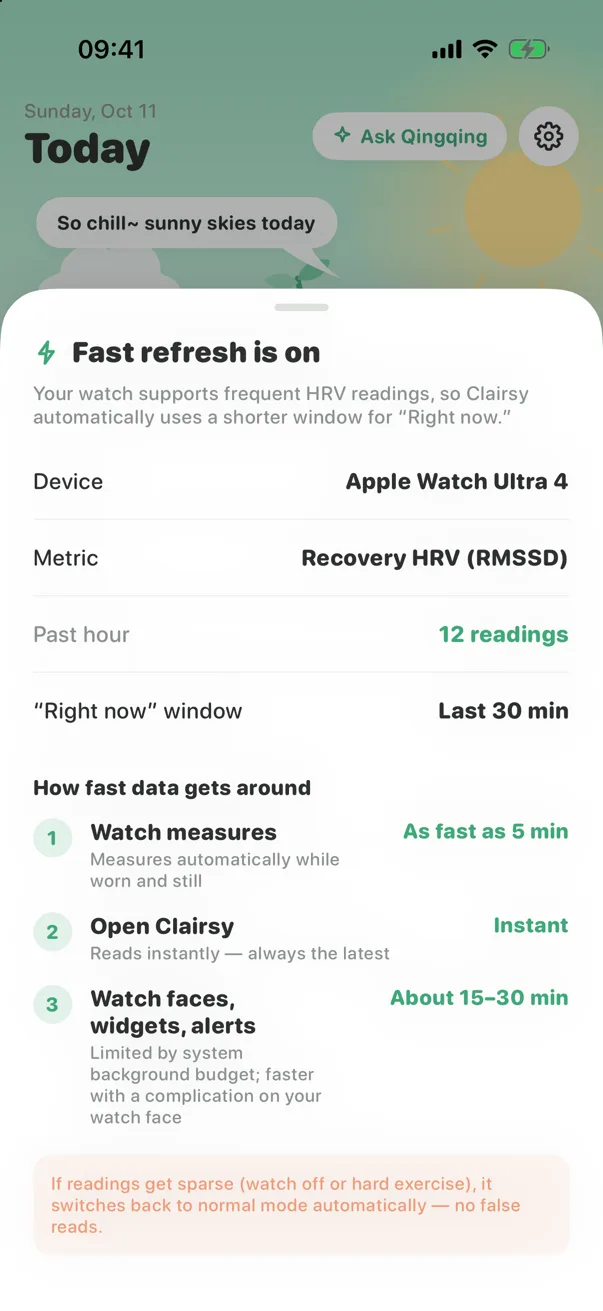
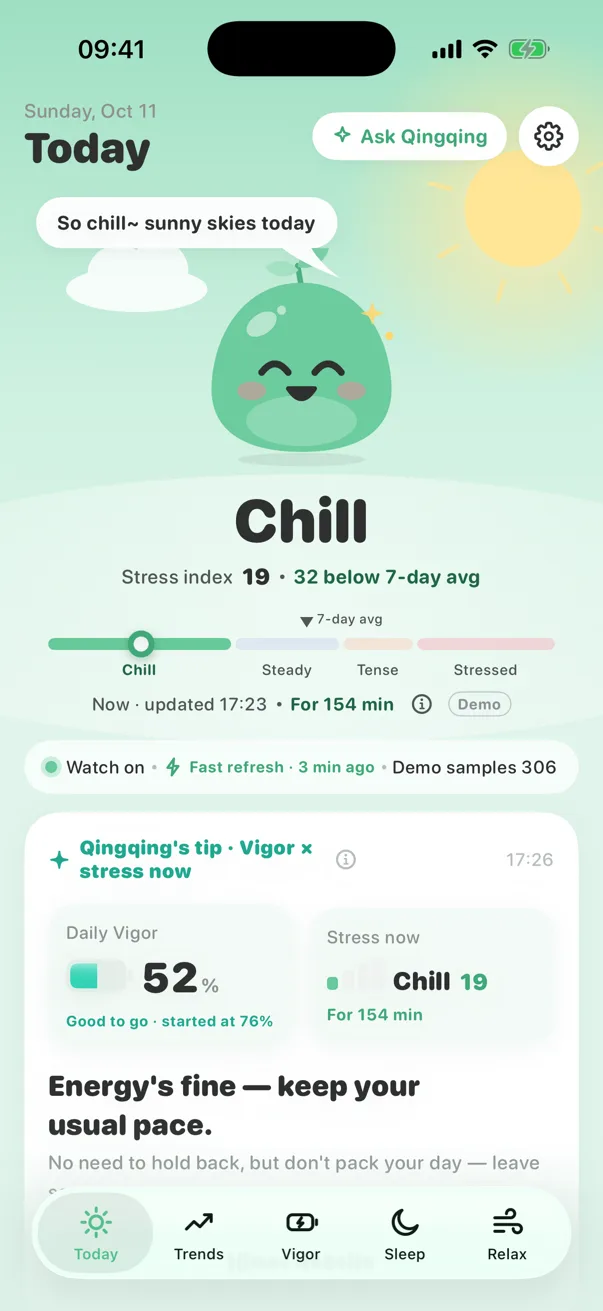
HRV feature step: use Today status strip (Fast refresh · N min ago) instead of info-panel screenshot; copy notes Today label

diff --git a/en/index.html b/en/index.html
@@ -18,7 +18,7 @@
 <div class="dev wt" data-px="0.08"><img src="../assets/watch-en.webp?v=7646d3a049" alt="Clairsy on Apple Watch" width="416" height="496"></div>
 <img class="mas" src="../assets/qingqing.svg?v=ae6b4a3a9c" alt="" width="135" height="135"></div>
 <p class="shotnote">Screenshots from the current app (demo data).</p></section>
-<section id="features" class="feat"><div class="wrap sgrid"><div class="steps"><div class="step reveal" data-step="0"><span class="n">01</span><h3>Stress, plain and clear</h3><p>HRV and resting heart rate become four clear levels — Chill, Steady, Tense, Stressed — with a stress index and 7-day average. Quick mood check-ins calibrate it to how you actually feel.</p><div class="inl"><div class="ph"><img src="../assets/today-en.webp?v=27ea3ea22e" alt="Clairsy Today" width="603" height="1311" loading="lazy"></div></div></div><div class="step reveal" data-step="1"><span class="n">02</span><h3>5-minute HRV refresh</h3><p>On Apple Watch Ultra 4 and Series 12, with Recovery HRV authorized, readings refresh about every 5 minutes and Clairsy switches to fast refresh, so “Right now” stays current. Your watch face and complications keep up as the system allows — usually within 15–30 minutes.</p><div class="inl"><div class="ph"><img src="../assets/hrv-en.webp?v=769bcee63e" alt="Fast refresh is on" width="603" height="1311" loading="lazy"></div></div></div><div class="step reveal" data-step="2"><span class="n">03</span><h3>Custom alert frequency</h3><p>Three stress-alert modes: Low (default) sends one gentle nudge when you move up to Stressed; Normal alerts after about 10 minutes in Tense or Stressed; Custom (Membership) reports your current status every 15 minutes to 4 hours. 15- and 30-minute intervals need a fast-refresh watch such as Series 12 or Ultra 4; on Series 11, Ultra 3 and earlier, Custom starts at 1 hour — or use Normal.</p><div class="inl"><div class="ph"><img src="../assets/alerts-en.webp?v=8a18800f85" alt="Stress alerts" width="603" height="1311" loading="lazy"></div></div></div><div class="step reveal" data-step="3"><span class="n">04</span><h3>Daily Vigor drains</h3><p>Each morning Clairsy sets your Daily Vigor from recovery, sleep and training load — then stress drains it through the day, so you can see how much you have left.</p><div class="inl"><div class="ph"><img src="../assets/vigor-en.webp?v=d0a4bb5afe" alt="Daily Vigor" width="603" height="1311" loading="lazy"></div></div></div><div class="step reveal" data-step="4"><span class="n">05</span><h3>Sleep at a glance</h3><p>Last night’s duration, sleep score, 7-night sleep debt and stages — deep, core, REM and awake — all free, with Qingqing suggesting a bedtime. Membership adds in-depth sleep analysis.</p><div class="inl"><div class="ph"><img src="../assets/sleep-en.webp?v=283b504065" alt="Sleep" width="603" height="1311" loading="lazy"></div></div></div><div class="step reveal" data-step="5"><span class="n">06</span><h3>Trends you can see</h3><p>Day, week and month views of your HRV against your baseline, a breakdown of time spent Chill, Steady, Tense and Stressed, and a stress heat map that shows when you tend to tense up. Trends are part of Clairsy Membership.</p><div class="inl"><div class="ph"><img src="../assets/trends-en.webp?v=13898853e0" alt="Trends" width="603" height="1311" loading="lazy"></div></div></div><div class="step reveal" data-step="6"><span class="n">07</span><h3>Breathe it down</h3><p>Resonance breathing (4 in, 6 out), cyclic sighing, 4-7-8 and box breathing, with Qingqing breathing along — on iPhone and Apple Watch. Before-and-after readings show what changed.</p><div class="inl"><div class="ph"><img src="../assets/breath-en.webp?v=e8665a2bd9" alt="Breathing exercise" width="603" height="1311" loading="lazy"></div></div></div><div class="step reveal" data-step="7"><span class="n">08</span><h3>Your watch face keeps up</h3><p>Watch face and complications show your current level, with a one-tap “Measure now”, Home Screen widgets, and optional local stress alerts. On Ultra 4 and Series 12, fast refresh keeps it more current.</p><div class="inl"><div class="wa"><img src="../assets/watch-en.webp?v=7646d3a049" alt="Clairsy on Apple Watch" width="416" height="496" loading="lazy"></div></div></div></div><div class="sticky"><div class="devbox"><div class="frame on" data-frame="0"><div class="ph"><img src="../assets/today-en.webp?v=27ea3ea22e" alt="Clairsy Today" width="603" height="1311" loading="lazy"></div></div><div class="frame" data-frame="1"><div class="ph"><img src="../assets/hrv-en.webp?v=769bcee63e" alt="Fast refresh is on" width="603" height="1311" loading="lazy"></div></div><div class="frame" data-frame="2"><div class="ph"><img src="../assets/alerts-en.webp?v=8a18800f85" alt="Stress alerts" width="603" height="1311" loading="lazy"></div></div><div class="frame" data-frame="3"><div class="ph"><img src="../assets/vigor-en.webp?v=d0a4bb5afe" alt="Daily Vigor" width="603" height="1311" loading="lazy"></div></div><div class="frame" data-frame="4"><div class="ph"><img src="../assets/sleep-en.webp?v=283b504065" alt="Sleep" width="603" height="1311" loading="lazy"></div></div><div class="frame" data-frame="5"><div class="ph"><img src="../assets/trends-en.webp?v=13898853e0" alt="Trends" width="603" height="1311" loading="lazy"></div></div><div class="frame" data-frame="6"><div class="ph"><img src="../assets/breath-en.webp?v=e8665a2bd9" alt="Breathing exercise" width="603" height="1311" loading="lazy"></div></div><div class="frame" data-frame="7"><div class="wa"><img src="../assets/watch-en.webp?v=7646d3a049" alt="Clairsy on Apple Watch" width="416" height="496" loading="lazy"></div></div></div><div class="dots" aria-hidden="true"><i class="on"></i><i class=""></i><i class=""></i><i class=""></i><i class=""></i><i class=""></i><i class=""></i><i class=""></i></div></div></div></section>
+<section id="features" class="feat"><div class="wrap sgrid"><div class="steps"><div class="step reveal" data-step="0"><span class="n">01</span><h3>Stress, plain and clear</h3><p>HRV and resting heart rate become four clear levels — Chill, Steady, Tense, Stressed — with a stress index and 7-day average. Quick mood check-ins calibrate it to how you actually feel.</p><div class="inl"><div class="ph"><img src="../assets/today-en.webp?v=27ea3ea22e" alt="Clairsy Today" width="603" height="1311" loading="lazy"></div></div></div><div class="step reveal" data-step="1"><span class="n">02</span><h3>5-minute HRV refresh</h3><p>On Apple Watch Ultra 4 and Series 12, with Recovery HRV authorized, samples arrive about every 5 minutes and Clairsy switches to fast refresh — you’ll see it on Today as “Fast refresh · a few minutes ago.” Watch face and complications keep up as the system allows, usually within 15–30 minutes.</p><div class="inl"><div class="ph"><img src="../assets/hrv-en.webp?v=294d4368a1" alt="Today · Fast refresh" width="603" height="1311" loading="lazy"></div></div></div><div class="step reveal" data-step="2"><span class="n">03</span><h3>Custom alert frequency</h3><p>Three stress-alert modes: Low (default) sends one gentle nudge when you move up to Stressed; Normal alerts after about 10 minutes in Tense or Stressed; Custom (Membership) reports your current status every 15 minutes to 4 hours. 15- and 30-minute intervals need a fast-refresh watch such as Series 12 or Ultra 4; on Series 11, Ultra 3 and earlier, Custom starts at 1 hour — or use Normal.</p><div class="inl"><div class="ph"><img src="../assets/alerts-en.webp?v=8a18800f85" alt="Stress alerts" width="603" height="1311" loading="lazy"></div></div></div><div class="step reveal" data-step="3"><span class="n">04</span><h3>Daily Vigor drains</h3><p>Each morning Clairsy sets your Daily Vigor from recovery, sleep and training load — then stress drains it through the day, so you can see how much you have left.</p><div class="inl"><div class="ph"><img src="../assets/vigor-en.webp?v=d0a4bb5afe" alt="Daily Vigor" width="603" height="1311" loading="lazy"></div></div></div><div class="step reveal" data-step="4"><span class="n">05</span><h3>Sleep at a glance</h3><p>Last night’s duration, sleep score, 7-night sleep debt and stages — deep, core, REM and awake — all free, with Qingqing suggesting a bedtime. Membership adds in-depth sleep analysis.</p><div class="inl"><div class="ph"><img src="../assets/sleep-en.webp?v=283b504065" alt="Sleep" width="603" height="1311" loading="lazy"></div></div></div><div class="step reveal" data-step="5"><span class="n">06</span><h3>Trends you can see</h3><p>Day, week and month views of your HRV against your baseline, a breakdown of time spent Chill, Steady, Tense and Stressed, and a stress heat map that shows when you tend to tense up. Trends are part of Clairsy Membership.</p><div class="inl"><div class="ph"><img src="../assets/trends-en.webp?v=13898853e0" alt="Trends" width="603" height="1311" loading="lazy"></div></div></div><div class="step reveal" data-step="6"><span class="n">07</span><h3>Breathe it down</h3><p>Resonance breathing (4 in, 6 out), cyclic sighing, 4-7-8 and box breathing, with Qingqing breathing along — on iPhone and Apple Watch. Before-and-after readings show what changed.</p><div class="inl"><div class="ph"><img src="../assets/breath-en.webp?v=e8665a2bd9" alt="Breathing exercise" width="603" height="1311" loading="lazy"></div></div></div><div class="step reveal" data-step="7"><span class="n">08</span><h3>Your watch face keeps up</h3><p>Watch face and complications show your current level, with a one-tap “Measure now”, Home Screen widgets, and optional local stress alerts. On Ultra 4 and Series 12, fast refresh keeps it more current.</p><div class="inl"><div class="wa"><img src="../assets/watch-en.webp?v=7646d3a049" alt="Clairsy on Apple Watch" width="416" height="496" loading="lazy"></div></div></div></div><div class="sticky"><div class="devbox"><div class="frame on" data-frame="0"><div class="ph"><img src="../assets/today-en.webp?v=27ea3ea22e" alt="Clairsy Today" width="603" height="1311" loading="lazy"></div></div><div class="frame" data-frame="1"><div class="ph"><img src="../assets/hrv-en.webp?v=294d4368a1" alt="Today · Fast refresh" width="603" height="1311" loading="lazy"></div></div><div class="frame" data-frame="2"><div class="ph"><img src="../assets/alerts-en.webp?v=8a18800f85" alt="Stress alerts" width="603" height="1311" loading="lazy"></div></div><div class="frame" data-frame="3"><div class="ph"><img src="../assets/vigor-en.webp?v=d0a4bb5afe" alt="Daily Vigor" width="603" height="1311" loading="lazy"></div></div><div class="frame" data-frame="4"><div class="ph"><img src="../assets/sleep-en.webp?v=283b504065" alt="Sleep" width="603" height="1311" loading="lazy"></div></div><div class="frame" data-frame="5"><div class="ph"><img src="../assets/trends-en.webp?v=13898853e0" alt="Trends" width="603" height="1311" loading="lazy"></div></div><div class="frame" data-frame="6"><div class="ph"><img src="../assets/breath-en.webp?v=e8665a2bd9" alt="Breathing exercise" width="603" height="1311" loading="lazy"></div></div><div class="frame" data-frame="7"><div class="wa"><img src="../assets/watch-en.webp?v=7646d3a049" alt="Clairsy on Apple Watch" width="416" height="496" loading="lazy"></div></div></div><div class="dots" aria-hidden="true"><i class="on"></i><i class=""></i><i class=""></i><i class=""></i><i class=""></i><i class=""></i><i class=""></i><i class=""></i></div></div></div></section>
 <section id="qingqing" class="meet"><div class="wrap"><div class="meetcard reveal">
 <div class="meetvis"><div class="meet-stage" aria-hidden="true"><img class="meet-face on" data-mood="chill" src="../assets/moods/chill.png?v=1ec6799918" alt="" width="220" height="220" loading="lazy"><img class="meet-face" data-mood="steady" src="../assets/moods/steady.png?v=08b04779e4" alt="" width="220" height="220" loading="lazy"><img class="meet-face" data-mood="tense" src="../assets/moods/tense.png?v=b3b451586a" alt="" width="220" height="220" loading="lazy"><img class="meet-face" data-mood="stressed" src="../assets/moods/stressed.png?v=03b7959c35" alt="" width="220" height="220" loading="lazy"></div>
 <div class="moods" role="group" aria-label="Meet Qingqing"><button type="button" class="mood on" data-mood="chill" aria-pressed="true"><img src="../assets/moods/chill.png?v=1ec6799918" alt="" width="56" height="56" loading="lazy"><span>Chill</span></button><button type="button" class="mood" data-mood="steady" aria-pressed="false"><img src="../assets/moods/steady.png?v=08b04779e4" alt="" width="56" height="56" loading="lazy"><span>Steady</span></button><button type="button" class="mood" data-mood="tense" aria-pressed="false"><img src="../assets/moods/tense.png?v=b3b451586a" alt="" width="56" height="56" loading="lazy"><span>Tense</span></button><button type="button" class="mood" data-mood="stressed" aria-pressed="false"><img src="../assets/moods/stressed.png?v=03b7959c35" alt="" width="56" height="56" loading="lazy"><span>Stressed</span></button></div></div>

diff --git a/zh/index.html b/zh/index.html
@@ -18,7 +18,7 @@
 <div class="dev wt" data-px="0.08"><img src="../assets/watch.webp?v=ed6af9df60" alt="Clairsy on Apple Watch" width="416" height="496"></div>
 <img class="mas" src="../assets/qingqing.svg?v=ae6b4a3a9c" alt="" width="135" height="135"></div>
 <p class="shotnote">截图来自当前版本（演示数据）。</p></section>
-<section id="features" class="feat"><div class="wrap sgrid"><div class="steps"><div class="step reveal" data-step="0"><span class="n">01</span><h3>压力一眼看懂</h3><p>HRV 和静息心率与你的个人基线比较，一眼看出四档：真巴适、hold住、有点烦、鸭梨大，并给出压力指数和 7 日均值。随手打卡此刻感受，帮它校准到你的真实体感。</p><div class="inl"><div class="ph"><img src="../assets/today-zh.webp?v=3d693c9e05" alt="Clairsy Today" width="603" height="1311" loading="lazy"></div></div></div><div class="step reveal" data-step="1"><span class="n">02</span><h3>5分钟 HRV 极速刷新</h3><p>在 Apple Watch Ultra 4 和 Series 12 上授权「恢复 HRV」后，样本最快约 5 分钟一次，Clairsy 自动进入极速刷新，「此刻」状态更及时；表盘和复杂功能也会尽快跟上（受系统后台额度限制，通常 15–30 分钟内）。</p><div class="inl"><div class="ph"><img src="../assets/hrv-zh.webp?v=2a1de16c0c" alt="极速刷新已开启" width="603" height="1311" loading="lazy"></div></div></div><div class="step reveal" data-step="2"><span class="n">03</span><h3>自定义通知频率</h3><p>压力提醒有三档：低频（默认）只在状态升入「鸭梨大」时轻轻提醒一次；普通在「有点烦」或「鸭梨大」持续约 10 分钟后提醒；自定义频率（会员）按 15 分钟到 4 小时的间隔播报此刻状态。15 / 30 分钟需要 Series 12、Ultra 4 等支持极速刷新的手表；Series 11、Ultra 3 及更早机型自定义从 1 小时起，或选普通档。</p><div class="inl"><div class="ph"><img src="../assets/alerts-zh.webp?v=9ad0ef0657" alt="压力提醒" width="603" height="1311" loading="lazy"></div></div></div><div class="step reveal" data-step="3"><span class="n">04</span><h3>今日元气会耗尽</h3><p>每天早上，Clairsy 根据恢复、睡眠和训练负荷定下今日元气；一天里压力会慢慢耗尽它，还剩多少一眼就知道。</p><div class="inl"><div class="ph"><img src="../assets/vigor.webp?v=dfa2228dbb" alt="Daily Vigor" width="603" height="1311" loading="lazy"></div></div></div><div class="step reveal" data-step="4"><span class="n">05</span><h3>睡眠一眼看懂</h3><p>昨夜睡眠时长、睡眠得分、近 7 晚睡眠负债，以及深睡、浅睡、REM、清醒分期，全部免费；晴晴还会建议今晚几点前睡。会员解锁深度睡眠分析。</p><div class="inl"><div class="ph"><img src="../assets/sleep-zh.webp?v=679f96642c" alt="睡眠" width="603" height="1311" loading="lazy"></div></div></div><div class="step reveal" data-step="5"><span class="n">06</span><h3>趋势看得见</h3><p>按日、周、月查看 HRV 与个人基线的对比、真巴适 / hold住 / 有点烦 / 鸭梨大各占多少时间，还有压力热力图，看清自己一般几点最紧绷。趋势为 Clairsy 会员功能。</p><div class="inl"><div class="ph"><img src="../assets/trends-zh.webp?v=80457499c8" alt="趋势" width="603" height="1311" loading="lazy"></div></div></div><div class="step reveal" data-step="6"><span class="n">07</span><h3>缓一口气</h3><p>共振呼吸（吸 4 呼 6）、循环叹息、4-7-8 呼吸和方块呼吸，晴晴陪你一起呼吸——iPhone 和 Apple Watch 都能用。缓一下前后的读数变化一看便知。</p><div class="inl"><div class="ph"><img src="../assets/breath-zh.webp?v=1e5c2805f1" alt="呼吸减压" width="603" height="1311" loading="lazy"></div></div></div><div class="step reveal" data-step="7"><span class="n">08</span><h3>表盘跟着变</h3><p>表盘和复杂功能显示此刻状态，一键「立即测量」；还有主屏幕小组件，以及可选的本地压力提醒。在 Ultra 4、Series 12 上配合极速刷新更及时。</p><div class="inl"><div class="wa"><img src="../assets/watch.webp?v=ed6af9df60" alt="Clairsy on Apple Watch" width="416" height="496" loading="lazy"></div></div></div></div><div class="sticky"><div class="devbox"><div class="frame on" data-frame="0"><div class="ph"><img src="../assets/today-zh.webp?v=3d693c9e05" alt="Clairsy Today" width="603" height="1311" loading="lazy"></div></div><div class="frame" data-frame="1"><div class="ph"><img src="../assets/hrv-zh.webp?v=2a1de16c0c" alt="极速刷新已开启" width="603" height="1311" loading="lazy"></div></div><div class="frame" data-frame="2"><div class="ph"><img src="../assets/alerts-zh.webp?v=9ad0ef0657" alt="压力提醒" width="603" height="1311" loading="lazy"></div></div><div class="frame" data-frame="3"><div class="ph"><img src="../assets/vigor.webp?v=dfa2228dbb" alt="Daily Vigor" width="603" height="1311" loading="lazy"></div></div><div class="frame" data-frame="4"><div class="ph"><img src="../assets/sleep-zh.webp?v=679f96642c" alt="睡眠" width="603" height="1311" loading="lazy"></div></div><div class="frame" data-frame="5"><div class="ph"><img src="../assets/trends-zh.webp?v=80457499c8" alt="趋势" width="603" height="1311" loading="lazy"></div></div><div class="frame" data-frame="6"><div class="ph"><img src="../assets/breath-zh.webp?v=1e5c2805f1" alt="呼吸减压" width="603" height="1311" loading="lazy"></div></div><div class="frame" data-frame="7"><div class="wa"><img src="../assets/watch.webp?v=ed6af9df60" alt="Clairsy on Apple Watch" width="416" height="496" loading="lazy"></div></div></div><div class="dots" aria-hidden="true"><i class="on"></i><i class=""></i><i class=""></i><i class=""></i><i class=""></i><i class=""></i><i class=""></i><i class=""></i></div></div></div></section>
+<section id="features" class="feat"><div class="wrap sgrid"><div class="steps"><div class="step reveal" data-step="0"><span class="n">01</span><h3>压力一眼看懂</h3><p>HRV 和静息心率与你的个人基线比较，一眼看出四档：真巴适、hold住、有点烦、鸭梨大，并给出压力指数和 7 日均值。随手打卡此刻感受，帮它校准到你的真实体感。</p><div class="inl"><div class="ph"><img src="../assets/today-zh.webp?v=3d693c9e05" alt="Clairsy Today" width="603" height="1311" loading="lazy"></div></div></div><div class="step reveal" data-step="1"><span class="n">02</span><h3>5分钟 HRV 极速刷新</h3><p>在 Apple Watch Ultra 4 和 Series 12 上授权「恢复 HRV」后，样本最快约 5 分钟一次，Clairsy 自动进入极速刷新——今日页会显示「极速刷新 · N 分钟前」。表盘和复杂功能也会尽快跟上（受系统后台额度限制，通常 15–30 分钟内）。</p><div class="inl"><div class="ph"><img src="../assets/hrv-zh.webp?v=d180db7a6f" alt="今日 · 极速刷新" width="603" height="1311" loading="lazy"></div></div></div><div class="step reveal" data-step="2"><span class="n">03</span><h3>自定义通知频率</h3><p>压力提醒有三档：低频（默认）只在状态升入「鸭梨大」时轻轻提醒一次；普通在「有点烦」或「鸭梨大」持续约 10 分钟后提醒；自定义频率（会员）按 15 分钟到 4 小时的间隔播报此刻状态。15 / 30 分钟需要 Series 12、Ultra 4 等支持极速刷新的手表；Series 11、Ultra 3 及更早机型自定义从 1 小时起，或选普通档。</p><div class="inl"><div class="ph"><img src="../assets/alerts-zh.webp?v=9ad0ef0657" alt="压力提醒" width="603" height="1311" loading="lazy"></div></div></div><div class="step reveal" data-step="3"><span class="n">04</span><h3>今日元气会耗尽</h3><p>每天早上，Clairsy 根据恢复、睡眠和训练负荷定下今日元气；一天里压力会慢慢耗尽它，还剩多少一眼就知道。</p><div class="inl"><div class="ph"><img src="../assets/vigor.webp?v=dfa2228dbb" alt="Daily Vigor" width="603" height="1311" loading="lazy"></div></div></div><div class="step reveal" data-step="4"><span class="n">05</span><h3>睡眠一眼看懂</h3><p>昨夜睡眠时长、睡眠得分、近 7 晚睡眠负债，以及深睡、浅睡、REM、清醒分期，全部免费；晴晴还会建议今晚几点前睡。会员解锁深度睡眠分析。</p><div class="inl"><div class="ph"><img src="../assets/sleep-zh.webp?v=679f96642c" alt="睡眠" width="603" height="1311" loading="lazy"></div></div></div><div class="step reveal" data-step="5"><span class="n">06</span><h3>趋势看得见</h3><p>按日、周、月查看 HRV 与个人基线的对比、真巴适 / hold住 / 有点烦 / 鸭梨大各占多少时间，还有压力热力图，看清自己一般几点最紧绷。趋势为 Clairsy 会员功能。</p><div class="inl"><div class="ph"><img src="../assets/trends-zh.webp?v=80457499c8" alt="趋势" width="603" height="1311" loading="lazy"></div></div></div><div class="step reveal" data-step="6"><span class="n">07</span><h3>缓一口气</h3><p>共振呼吸（吸 4 呼 6）、循环叹息、4-7-8 呼吸和方块呼吸，晴晴陪你一起呼吸——iPhone 和 Apple Watch 都能用。缓一下前后的读数变化一看便知。</p><div class="inl"><div class="ph"><img src="../assets/breath-zh.webp?v=1e5c2805f1" alt="呼吸减压" width="603" height="1311" loading="lazy"></div></div></div><div class="step reveal" data-step="7"><span class="n">08</span><h3>表盘跟着变</h3><p>表盘和复杂功能显示此刻状态，一键「立即测量」；还有主屏幕小组件，以及可选的本地压力提醒。在 Ultra 4、Series 12 上配合极速刷新更及时。</p><div class="inl"><div class="wa"><img src="../assets/watch.webp?v=ed6af9df60" alt="Clairsy on Apple Watch" width="416" height="496" loading="lazy"></div></div></div></div><div class="sticky"><div class="devbox"><div class="frame on" data-frame="0"><div class="ph"><img src="../assets/today-zh.webp?v=3d693c9e05" alt="Clairsy Today" width="603" height="1311" loading="lazy"></div></div><div class="frame" data-frame="1"><div class="ph"><img src="../assets/hrv-zh.webp?v=d180db7a6f" alt="今日 · 极速刷新" width="603" height="1311" loading="lazy"></div></div><div class="frame" data-frame="2"><div class="ph"><img src="../assets/alerts-zh.webp?v=9ad0ef0657" alt="压力提醒" width="603" height="1311" loading="lazy"></div></div><div class="frame" data-frame="3"><div class="ph"><img src="../assets/vigor.webp?v=dfa2228dbb" alt="Daily Vigor" width="603" height="1311" loading="lazy"></div></div><div class="frame" data-frame="4"><div class="ph"><img src="../assets/sleep-zh.webp?v=679f96642c" alt="睡眠" width="603" height="1311" loading="lazy"></div></div><div class="frame" data-frame="5"><div class="ph"><img src="../assets/trends-zh.webp?v=80457499c8" alt="趋势" width="603" height="1311" loading="lazy"></div></div><div class="frame" data-frame="6"><div class="ph"><img src="../assets/breath-zh.webp?v=1e5c2805f1" alt="呼吸减压" width="603" height="1311" loading="lazy"></div></div><div class="frame" data-frame="7"><div class="wa"><img src="../assets/watch.webp?v=ed6af9df60" alt="Clairsy on Apple Watch" width="416" height="496" loading="lazy"></div></div></div><div class="dots" aria-hidden="true"><i class="on"></i><i class=""></i><i class=""></i><i class=""></i><i class=""></i><i class=""></i><i class=""></i><i class=""></i></div></div></div></section>
 <section id="qingqing" class="meet"><div class="wrap"><div class="meetcard reveal">
 <div class="meetvis"><div class="meet-stage" aria-hidden="true"><img class="meet-face on" data-mood="chill" src="../assets/moods/chill.png?v=1ec6799918" alt="" width="220" height="220" loading="lazy"><img class="meet-face" data-mood="steady" src="../assets/moods/steady.png?v=08b04779e4" alt="" width="220" height="220" loading="lazy"><img class="meet-face" data-mood="tense" src="../assets/moods/tense.png?v=b3b451586a" alt="" width="220" height="220" loading="lazy"><img class="meet-face" data-mood="stressed" src="../assets/moods/stressed.png?v=03b7959c35" alt="" width="220" height="220" loading="lazy"></div>
 <div class="moods" role="group" aria-label="认识晴晴"><button type="button" class="mood on" data-mood="chill" aria-pressed="true"><img src="../assets/moods/chill.png?v=1ec6799918" alt="" width="56" height="56" loading="lazy"><span>真巴适</span></button><button type="button" class="mood" data-mood="steady" aria-pressed="false"><img src="../assets/moods/steady.png?v=08b04779e4" alt="" width="56" height="56" loading="lazy"><span>hold住</span></button><button type="button" class="mood" data-mood="tense" aria-pressed="false"><img src="../assets/moods/tense.png?v=b3b451586a" alt="" width="56" height="56" loading="lazy"><span>有点烦</span></button><button type="button" class="mood" data-mood="stressed" aria-pressed="false"><img src="../assets/moods/stressed.png?v=03b7959c35" alt="" width="56" height="56" loading="lazy"><span>鸭梨大</span></button></div></div>

diff --git a/build.py b/build.py
@@ -25,7 +25,7 @@ T = {
   trust=[('On-device only','No servers — nothing is uploaded'),('No account','No sign-up, no login'),('No tracking','No ads, no analytics SDKs'),('Read-only Health','Clairsy never writes to Health')],
   fk='FEATURES', fh='Built around your own baseline',
   cards=[('Stress, plain and clear','HRV and resting heart rate become four clear levels — Chill, Steady, Tense, Stressed — with a stress index and 7-day average. Quick mood check-ins calibrate it to how you actually feel.'),
-         ('5-minute HRV refresh','On Apple Watch Ultra 4 and Series 12, with Recovery HRV authorized, readings refresh about every 5 minutes and Clairsy switches to fast refresh, so “Right now” stays current. Your watch face and complications keep up as the system allows — usually within 15–30 minutes.'),
+         ('5-minute HRV refresh','On Apple Watch Ultra 4 and Series 12, with Recovery HRV authorized, samples arrive about every 5 minutes and Clairsy switches to fast refresh — you’ll see it on Today as “Fast refresh · a few minutes ago.” Watch face and complications keep up as the system allows, usually within 15–30 minutes.'),
          ('Custom alert frequency','Three stress-alert modes: Low (default) sends one gentle nudge when you move up to Stressed; Normal alerts after about 10 minutes in Tense or Stressed; Custom (Membership) reports your current status every 15 minutes to 4 hours. 15- and 30-minute intervals need a fast-refresh watch such as Series 12 or Ultra 4; on Series 11, Ultra 3 and earlier, Custom starts at 1 hour — or use Normal.'),
          ('Daily Vigor drains','Each morning Clairsy sets your Daily Vigor from recovery, sleep and training load — then stress drains it through the day, so you can see how much you have left.'),
          ('Sleep at a glance','Last night’s duration, sleep score, 7-night sleep debt and stages — deep, core, REM and awake — all free, with Qingqing suggesting a bedtime. Membership adds in-depth sleep analysis.'),
@@ -62,7 +62,7 @@ T = {
   trust=[('仅在设备上计算','没有服务器，什么都不上传'),('无需账号','不用注册，不用登录'),('不追踪','无广告，无统计分析 SDK'),('只读健康数据','Clairsy 从不写入「健康」')],
   fk='功能', fh='围绕你自己的基线',
   cards=[('压力一眼看懂','HRV 和静息心率与你的个人基线比较，一眼看出四档：真巴适、hold住、有点烦、鸭梨大，并给出压力指数和 7 日均值。随手打卡此刻感受，帮它校准到你的真实体感。'),
-         ('5分钟 HRV 极速刷新','在 Apple Watch Ultra 4 和 Series 12 上授权「恢复 HRV」后，样本最快约 5 分钟一次，Clairsy 自动进入极速刷新，「此刻」状态更及时；表盘和复杂功能也会尽快跟上（受系统后台额度限制，通常 15–30 分钟内）。'),
+         ('5分钟 HRV 极速刷新','在 Apple Watch Ultra 4 和 Series 12 上授权「恢复 HRV」后，样本最快约 5 分钟一次，Clairsy 自动进入极速刷新——今日页会显示「极速刷新 · N 分钟前」。表盘和复杂功能也会尽快跟上（受系统后台额度限制，通常 15–30 分钟内）。'),
          ('自定义通知频率','压力提醒有三档：低频（默认）只在状态升入「鸭梨大」时轻轻提醒一次；普通在「有点烦」或「鸭梨大」持续约 10 分钟后提醒；自定义频率（会员）按 15 分钟到 4 小时的间隔播报此刻状态。15 / 30 分钟需要 Series 12、Ultra 4 等支持极速刷新的手表；Series 11、Ultra 3 及更早机型自定义从 1 小时起，或选普通档。'),
          ('今日元气会耗尽','每天早上，Clairsy 根据恢复、睡眠和训练负荷定下今日元气；一天里压力会慢慢耗尽它，还剩多少一眼就知道。'),
          ('睡眠一眼看懂','昨夜睡眠时长、睡眠得分、近 7 晚睡眠负债，以及深睡、浅睡、REM、清醒分期，全部免费；晴晴还会建议今晚几点前睡。会员解锁深度睡眠分析。'),
@@ -212,7 +212,7 @@ X={'en':dict(
   moods=[('chill','Chill'),('steady','Steady'),('tense','Tense'),('stressed','Stressed')],
   priv_h='Private by design.',
   priv_p='Clairsy only reads the Health data you allow it to read, and does all of its calculations on your iPhone and Apple Watch. We have no servers. We never upload your data to us or to anyone else, and we never use it for advertising.',
-  priv_link='Read the Privacy Policy ›', breath_alt='Breathing exercise', sleep_alt='Sleep', trends_alt='Trends', hrv_alt='Fast refresh is on', alerts_alt='Stress alerts'),
+  priv_link='Read the Privacy Policy ›', breath_alt='Breathing exercise', sleep_alt='Sleep', trends_alt='Trends', hrv_alt='Today · Fast refresh', alerts_alt='Stress alerts'),
  'zh':dict(
   dark_h='只和<span>你自己</span>比。',
   dark_p='',
@@ -225,7 +225,7 @@ X={'en':dict(
   moods=[('chill','真巴适'),('steady','hold住'),('tense','有点烦'),('stressed','鸭梨大')],
   priv_h='隐私，从设计开始。',
   priv_p='Clairsy 只读取你授权的「健康」数据，所有计算都在你的 iPhone 和 Apple Watch 上完成。我们没有服务器，不会把你的任何数据上传给我们或任何第三方，也不会把数据用于广告。',
-  priv_link='阅读隐私政策 ›', breath_alt='呼吸减压', sleep_alt='睡眠', trends_alt='趋势', hrv_alt='极速刷新已开启', alerts_alt='压力提醒')}
+  priv_link='阅读隐私政策 ›', breath_alt='呼吸减压', sleep_alt='睡眠', trends_alt='趋势', hrv_alt='今日 · 极速刷新', alerts_alt='压力提醒')}
 CLOUDS='<div class="cloud c1"></div><div class="cloud c2"></div><div class="cloud c3"></div>'
 
 def home(lang):
